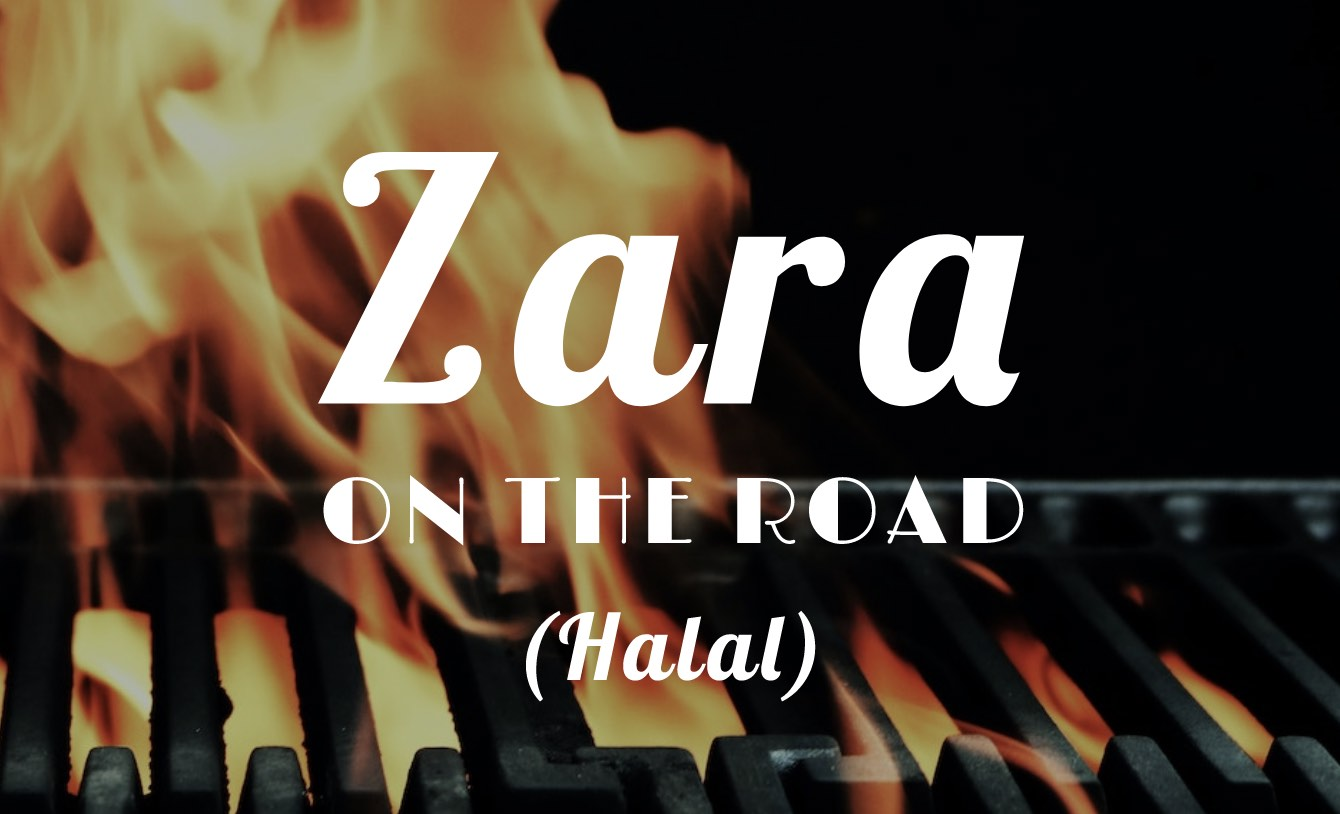
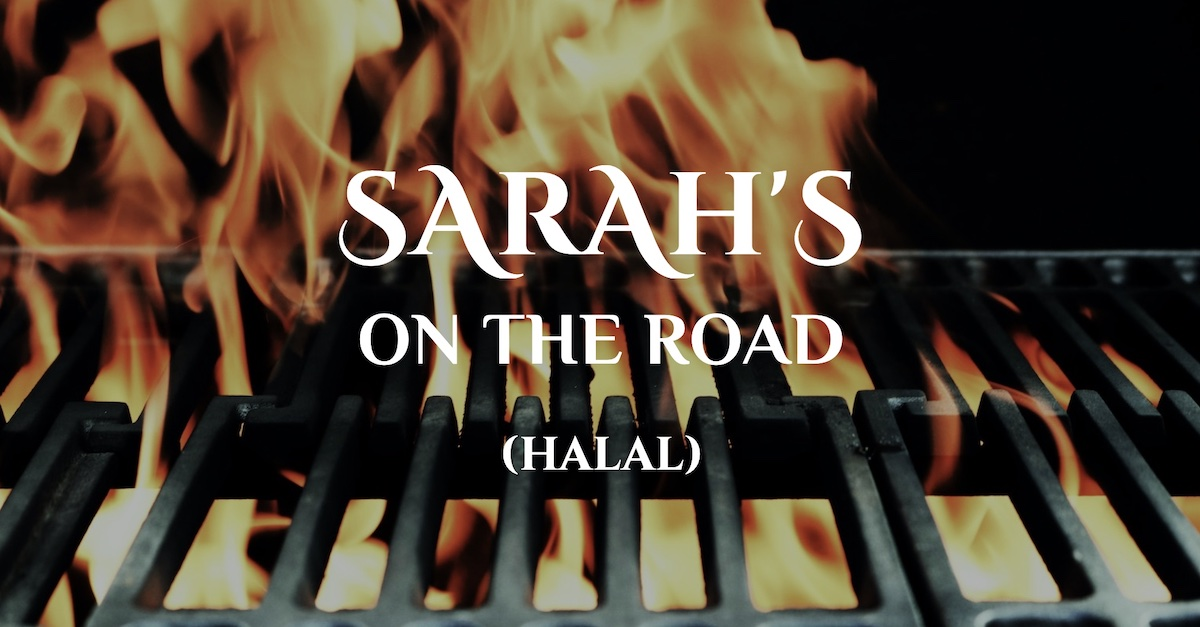
rm scrollbar, change name

diff --git a/app/templates/index.html b/app/templates/index.html
@@ -2,7 +2,7 @@
 {% import 'bootstrap/wtf.html' as wtf %}
 
 {% block head %}
-  <meta property="og:title" content="Zara on the Road" />
+  <meta property="og:title" content="Sarah's on the Road" />
   <meta property="og:description" content="" />
   <meta property="og:image" content="{{ url_for('static', filename='img/og-image.jpg') }}" />
   <script src="https://www.google.com/recaptcha/api.js" async defer></script>
@@ -22,13 +22,13 @@
       {% endfor %}
     {% endif %}
   {% endwith %}
-  <nav class="row justify-content-center justify-content-md-start">
+  <!--<nav class="row justify-content-center justify-content-md-start">
     <div class="home-nav col-11 offset-md-6 col-md-6 col-lg-5 col-xl-4">
       <div><a href="#food" data-text="menu">menu</a></div>
       <div><a href="https://zaraatx.square.site" data-text="order">order</a></div>
       <div><a href="#contact" data-text="contact">contact</a></div>
     </div>
-  </nav>
+  </nav>-->
 {% endblock navbar %}
 
 {% block content %}
@@ -37,10 +37,10 @@
       <div class="row justify-content-center">
         <div class="col-11">
           <img id="home-logo" class="img-fluid"
-            src="{{ url_for('static', filename='img/logo.svg') }}" alt="Zara on the Road">
+            src="{{ url_for('static', filename='img/logo.svg') }}" alt="Sarah's on the Road">
         </div>
       </div>
-      <div class="home-next row">
+      <!--<div class="home-next row">
         <a href="#food">
           <h2>
             ENTER
@@ -50,7 +50,7 @@
             <path fill-rule="evenodd" d="M1.646 4.646a.5.5 0 0 1 .708 0L8 10.293l5.646-5.647a.5.5 0 0 1 .708.708l-6 6a.5.5 0 0 1-.708 0l-6-6a.5.5 0 0 1 0-.708z"/>
           </svg>
         </a>
-      </div>
+      </div>-->
     </div>
 
     <!--<div id="dine" class="home-section">

diff --git a/app/static/css/custom.scss b/app/static/css/custom.scss
@@ -27,12 +27,19 @@ $title-font: 'Montserrat Alternates', 'Helvetica', sans-serif;
 @import "menu.css";
 
 // Sitewide stylings //
+html {
+  -ms-overflow-style: none;
+}
+
+html::-webkit-scrollbar {
+  display: none;
+}
+
 body {
   font-family: $body-font;
   color: $body-color;
   font-size: 1.6rem;
 }
-
 
 p {
   margin-bottom: 2rem;

diff --git a/app/static/css/custom.css b/app/static/css/custom.css
@@ -5642,6 +5642,14 @@ progress {
   border-radius: 0.2rem;
 }
 
+html {
+  -ms-overflow-style: none;
+}
+
+html::-webkit-scrollbar {
+  display: none;
+}
+
 body {
   font-family: "Montserrat", "Helvetica", sans-serif;
   color: #365F8F;
